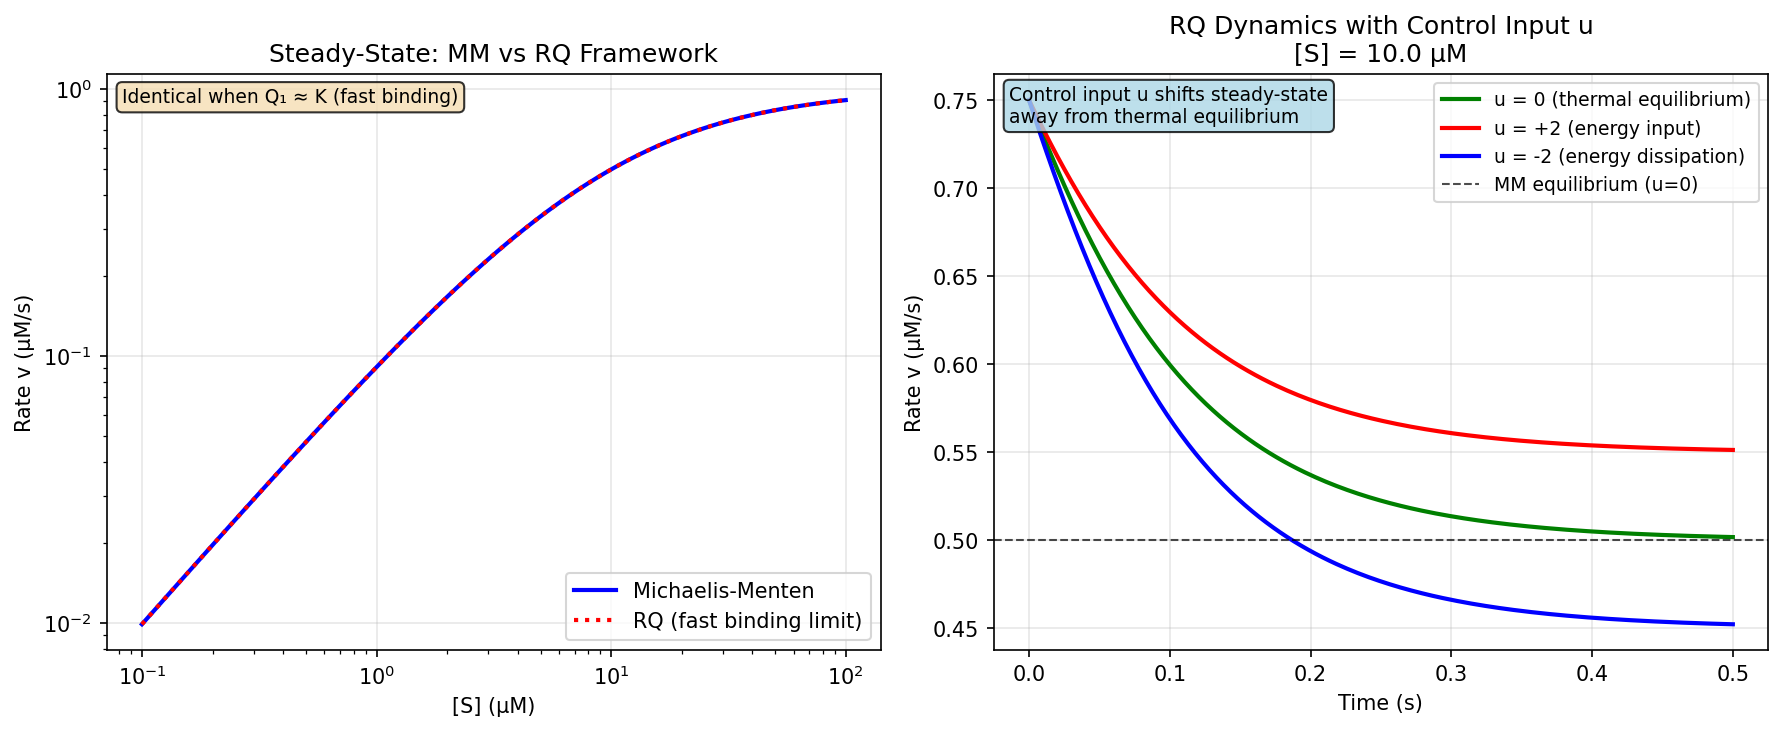
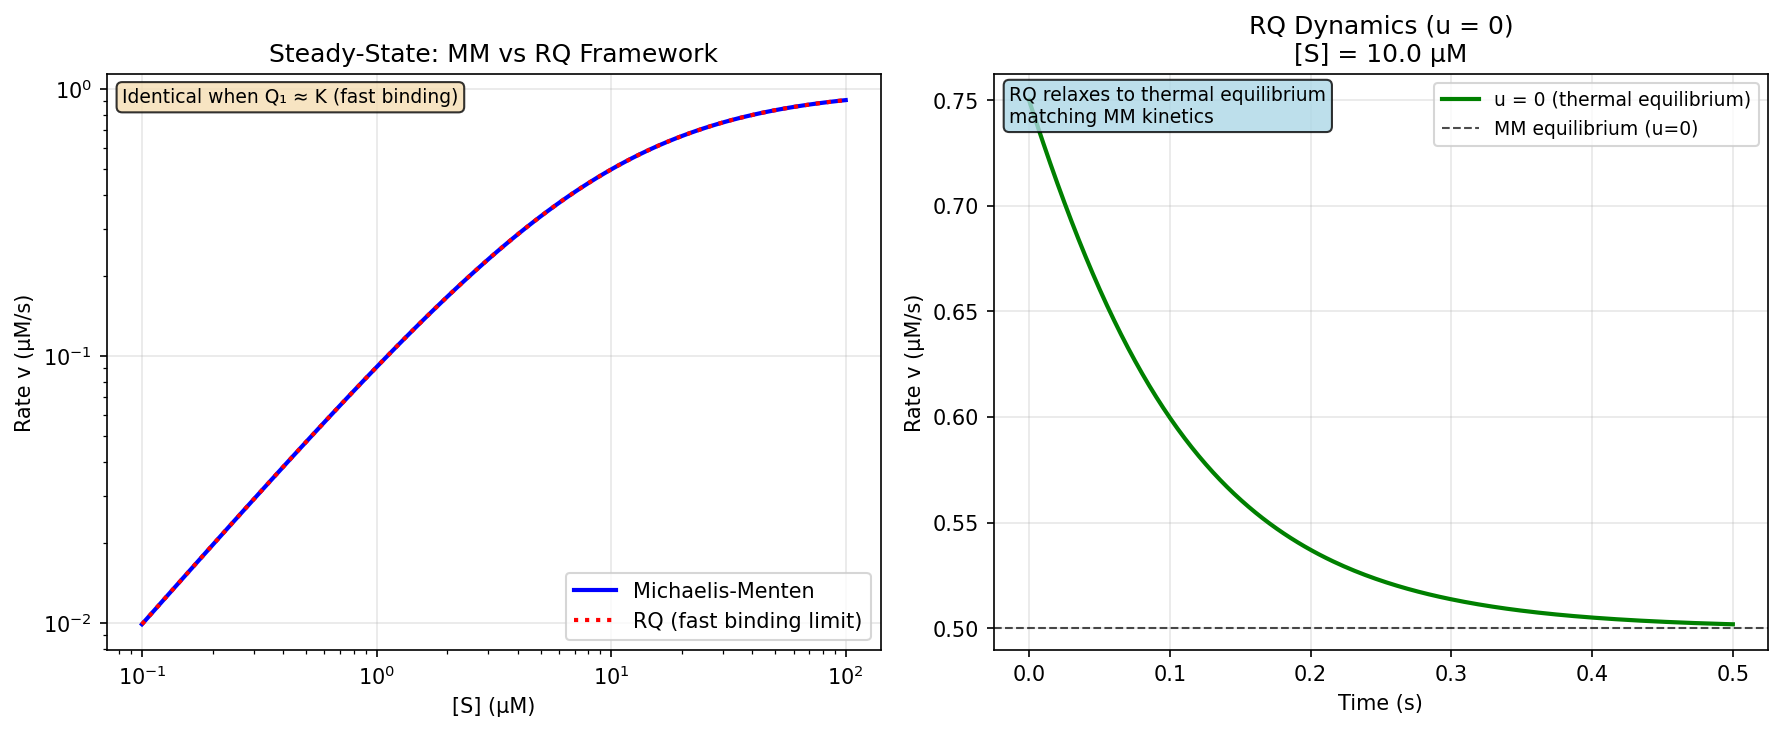
remove u != 0

diff --git a/michaelis_menten/mm_log_linear_demo.py b/michaelis_menten/mm_log_linear_demo.py
@@ -83,34 +83,31 @@ def demo_rq_dynamics():
              transform=ax1.transAxes, fontsize=9, 
              bbox=dict(boxstyle='round', facecolor='wheat', alpha=0.8))
     
-    # RIGHT: RQ dynamics with different control inputs
+    # RIGHT: RQ dynamics relaxing to equilibrium (u = 0)
     S_fixed = 10.0  # fixed substrate (μM)
     Q_0 = 3.0 * K   # start 3x above equilibrium
     
-    # Three cases: no drive, positive drive, negative drive
-    u_values = [0.0, 2.0, -2.0]
-    colors = ['green', 'red', 'blue']
-    labels = ['u = 0 (thermal equilibrium)', 'u = +2 (energy input)', 'u = -2 (energy dissipation)']
+    # Single case: no drive (u = 0)
+    u = 0.0
     
     # Equilibrium reference (MM prediction when u=0)
     v_eq_mm = mm_rate(S_fixed, V_max, K_M)
     
-    for u, color, label in zip(u_values, colors, labels):
-        Q_t = rq_analytical(t, Q_0, K, k, u=u)
-        ES_t = es_concentration(E_tot, S_fixed, Q_t)
-        v_t = k_cat * ES_t
-        ax2.plot(t, v_t, color=color, linewidth=2, label=label)
+    Q_t = rq_analytical(t, Q_0, K, k, u=u)
+    ES_t = es_concentration(E_tot, S_fixed, Q_t)
+    v_t = k_cat * ES_t
+    ax2.plot(t, v_t, color='green', linewidth=2, label='u = 0 (thermal equilibrium)')
     
     ax2.axhline(y=v_eq_mm, color='black', linestyle='--', linewidth=1, alpha=0.7,
                 label='MM equilibrium (u=0)')
     ax2.set_xlabel('Time (s)')
     ax2.set_ylabel('Rate v (μM/s)')
-    ax2.set_title(f'RQ Dynamics with Control Input u\n[S] = {S_fixed} μM')
+    ax2.set_title(f'RQ Dynamics (u = 0)\n[S] = {S_fixed} μM')
     ax2.legend(fontsize=9)
     ax2.grid(True, alpha=0.3)
     
-    # Add annotation about control input
-    ax2.text(0.02, 0.98, 'Control input u shifts steady-state\naway from thermal equilibrium', 
+    # Add annotation about equilibrium relaxation
+    ax2.text(0.02, 0.98, 'RQ relaxes to thermal equilibrium\nmatching MM kinetics', 
              transform=ax2.transAxes, fontsize=9, verticalalignment='top',
              bbox=dict(boxstyle='round', facecolor='lightblue', alpha=0.8))
     
@@ -135,7 +132,5 @@ if __name__ == "__main__":
     print("\nSaved: mm_rq_comparison.png")
     print("\nKey insights demonstrated:")
     print("• Left panel: MM and RQ frameworks are identical when Q₁ ≈ K (fast binding)")
-    print("• Right panel: Control input u drives the system away from thermal equilibrium") 
-    print("• u = 0: Relaxes to MM equilibrium (green curve)")
-    print("• u > 0: Energy input pushes reaction quotient above equilibrium (red)")
-    print("• u < 0: Energy dissipation pulls reaction quotient below equilibrium (blue)")
+    print("• Right panel: RQ dynamics relaxes to thermal equilibrium (u = 0)") 
+    print("• System converges to MM equilibrium kinetics over the relaxation timescale τ = 1/k")
